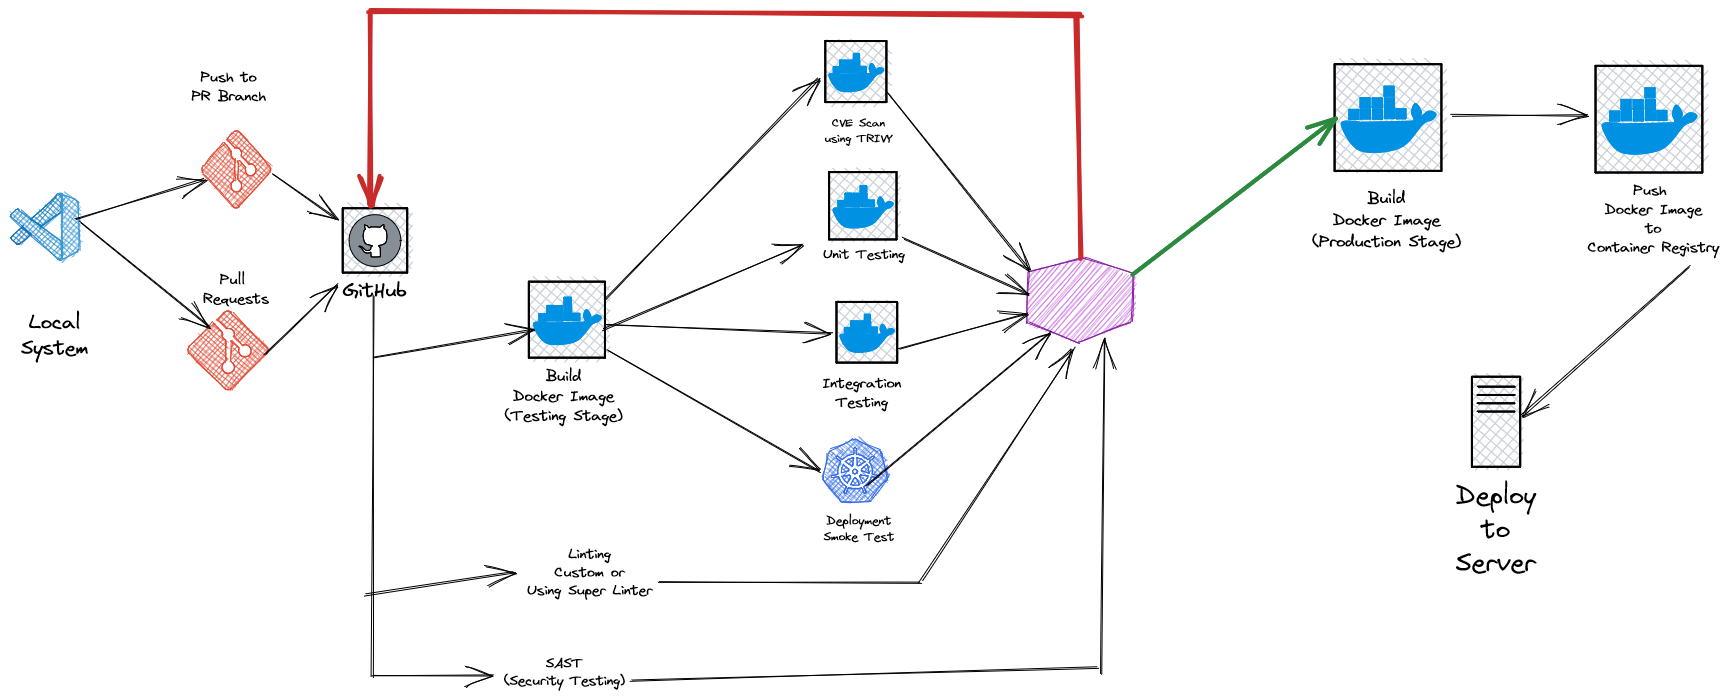
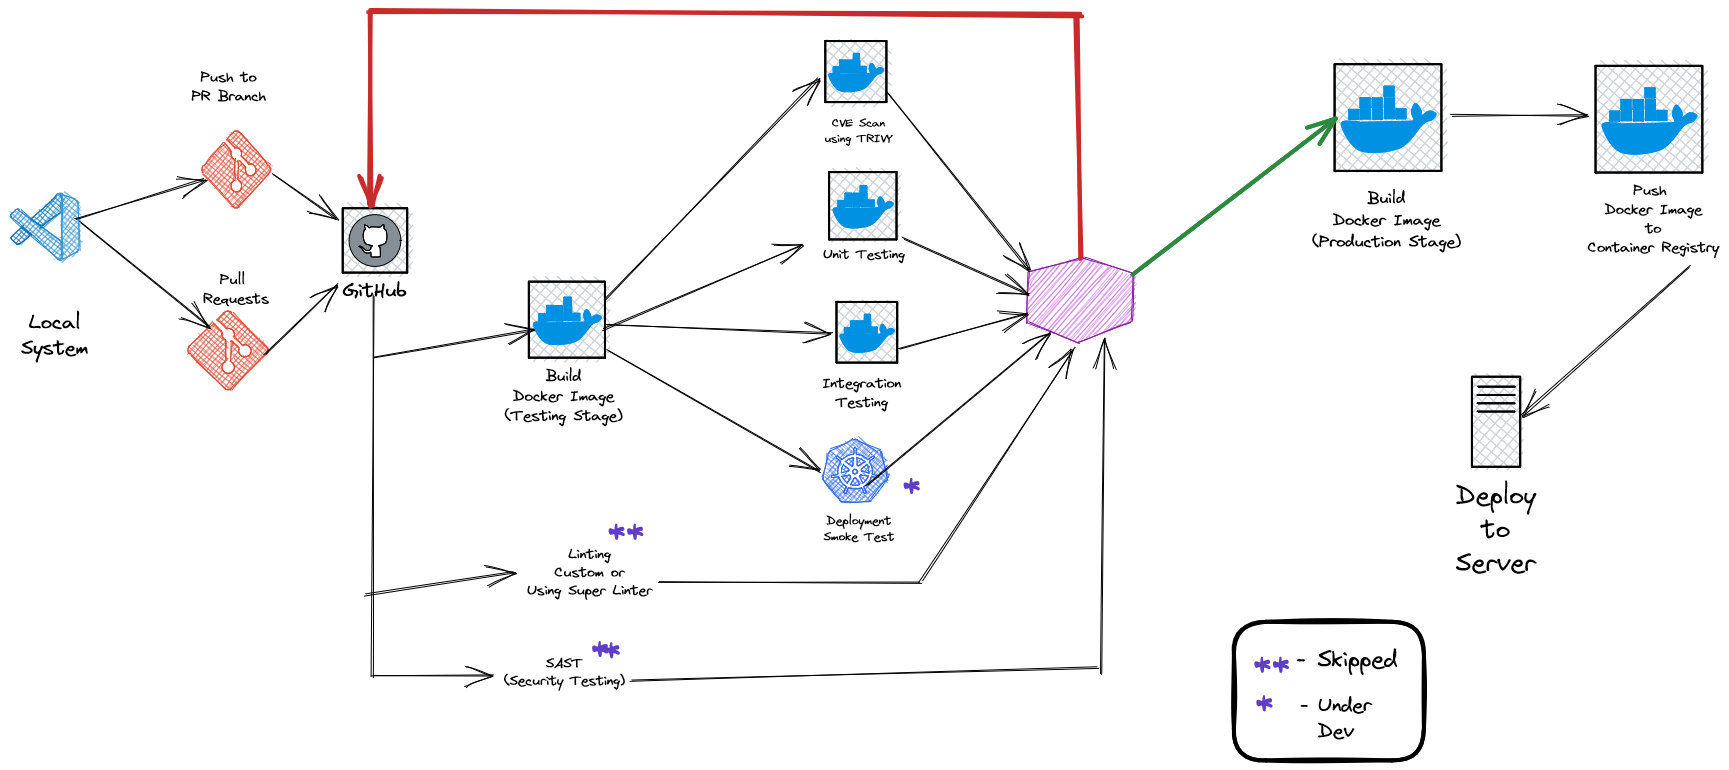
Updated CT/CD

diff --git a/README.MD b/README.MD
@@ -4,6 +4,29 @@
 
 A minimalistic application to generate transcriptions for audio built using Python
 
+## 👇 Product Snapshots
+
+
+#### Without Docker
+
+**v.0.0.1**
+<p align = "center"><img src = "./assets/demo_snapshot_v1.png" height = 300 width = 450 alt = "AITranscriber Snapshot"></p>
+
+**v.0.0.2** (Transcribing a Youtube Video Explaining Whisper)
+<p align = "center"><img src = "./assets/demo_snapshot_v2_1.png" height = 300 width = 450 alt = "AITranscriber Snapshot v2"></p>
+
+**v.0.0.2** (Transcribing an English Song - Thinkin About It)
+<p align = "center"><img src = "./assets/demo_snapshot_v2_2.png" height = 300 width = 450 alt = "AITranscriber Snapshot v2"></p>
+
+**v.0.0.3** (Transcribing a [clip](https://www.youtube.com/watch?v=A1UjHboEypk) from [Lex Fridman's podcast](https://lexfridman.com/podcast/))
+
+<p align = "center"><img src = "./assets/demo_snapshot_v3.png" height = 300 width = 450 alt = "AITranscriber Snapshot v3"></p>
+
+**v.0.0.4** (Transcribing another [clip](https://www.youtube.com/watch?v=zxqjlWNVGNM) from [Lex Fridman's podcast](https://lexfridman.com/podcast/))
+
+<p align = "center"><img src = "./assets/demo_snapshot_v4.png" height = 300 width = 450 alt = "AITranscriber Snapshot v4"></p>
+
+
 ## 📝 Basic Application WorkFlow 
 
 ```mermaid
@@ -75,27 +98,11 @@ flowchart LR
     end
 ```
 
-## 👇 Product Snapshots
+## 🥊CI/CD
 
+(**Preferred Pipeline Using GitHub Actions for Docker Image**)
 
-#### Without Docker
-
-**v.0.0.1**
-<p align = "center"><img src = "./assets/demo_snapshot_v1.png" height = 300 width = 450 alt = "AITranscriber Snapshot"></p>
-
-**v.0.0.2** (Transcribing a Youtube Video Explaining Whisper)
-<p align = "center"><img src = "./assets/demo_snapshot_v2_1.png" height = 300 width = 450 alt = "AITranscriber Snapshot v2"></p>
-
-**v.0.0.2** (Transcribing an English Song - Thinkin About It)
-<p align = "center"><img src = "./assets/demo_snapshot_v2_2.png" height = 300 width = 450 alt = "AITranscriber Snapshot v2"></p>
-
-**v.0.0.3** (Transcribing a [clip](https://www.youtube.com/watch?v=A1UjHboEypk) from [Lex Fridman's podcast](https://lexfridman.com/podcast/))
-
-<p align = "center"><img src = "./assets/demo_snapshot_v3.png" height = 300 width = 450 alt = "AITranscriber Snapshot v3"></p>
-
-**v.0.0.4** (Transcribing another [clip](https://www.youtube.com/watch?v=zxqjlWNVGNM) from [Lex Fridman's podcast](https://lexfridman.com/podcast/))
-
-<p align = "center"><img src = "./assets/demo_snapshot_v4.png" height = 300 width = 450 alt = "AITranscriber Snapshot v4"></p>
+<p align = "center"><img src = "./assets/Docker_CICD.png" height = 300 width = 450 alt = "Docker CI/CD"></p>
 
 
 ## ⚒ Set-Up Instructions
@@ -202,132 +209,9 @@ flowchart LR
     > - If you used a different host port in the above command then navigate to that one, ``http://localhost:<host_port>``
     > - To stop the container, in the terminal check the containter name: ``docker ps --all``
     > - Now use container name with the command:  ``docker stop <container_name>``
-/
-## 🏗 Future Work 
-
-- [x] Download and use audio from Youtube Video
-- [x] Download and use online audio file
-- [x] Use Session States and Caching for Better UX
-- [x] Display the language detected propely (without using the shortcode)
-- [x] Generate Dedicated SRT,VTT files for transcripts (in addition to txt)
-- [x] Update Model options to honour the name of prominent Indian Scientists
-- [x] Option to limit/increase input model file size
-- [x] Functionality to check the validity URL provided for Youtube Video
-- [x] Add Custom Favicon File
-- [x] Add Scrollable Text Area for Generated Transcripts
-- [x] Containerize the Application with Docker and troubleshoot locally
-- [ ] Resolve bug: Youtube video with multiple audios should download default audio. 
-    - Example: This [clip](https://www.youtube.com/watch?v=93L6gDVRrUY) from Huberman Lab is in English yet the script fetches the spanish audio codec from Youtube  
-
-- [ ] Test Application by spinning up it's Container on Google Cloud Run
-    - [ ] Push to a particular Docker Image Registry
-    - [ ] Set TTL
-    - [ ] Play around with system resources
-    - [ ] Test with custom domain
-- [ ] Add Google Cloud's CI/CD to repo on push/pull requests
-    - [ ] Use cloudbuild.yaml file
-    - [ ] Update build time to 2 hours
-- [ ] Optimize Docker Image Size
-- [ ] Better CI/CD
-- [ ] Kubernetes Upgrade
-- [ ] Better GitHub Actions
-
-**More Features**:
-
-- [ ] Burn transcripts to user-uploaded video
-        ```python
-        import os
-        output_video = "final.mp4"
-
-        os.system(f"ffmpeg -i {input_video} -vf subtitles={subtitle} {output_video}")
-        ```
-- [ ] Summarize subtitles
-- [ ] Sentiment analysis on video summary
-- [ ] Batch transcript generation + summary + sentiment analysis
-- [ ] Dashboard for video review(s)
 
 
-**Speaker Diarization: Only if Community requires**
-
-- [ ] Incorporate Speaker Diarization for Podcast/Vlog/Conversational Clips
-- [ ] Test it with burning transcripts to user uploaded video
-- [ ] Test it with transcript summarization
-
-**More Aligned Subtitles: Only if Community requires**
-
-- [ ] Word Level Timestamps for transcripts + Generate ASS Transcript File
-- [ ] Test it with burning transcripts to user uploaded video
-- [ ] Test it with previous speaker diarization
-- [ ] Test it with transcript summarization
-
-
-- [ ] Improve UI Natively in Streamlit
-
-**API Development: Only if Community requires**
-
-- [ ] Build API for model inference in FastAPI to handle requests asynchronously (on a different branch perhaps)
-- [ ] Containerize the API with Docker
-- [ ] Troubleshoot Docker Container for API
-- [ ] Host the API on Google/AWS/Linode/Heroku
-- [ ] Perform basic CI/CD for API 
-- [ ] Rehost Streamlit Application on a different service (Reduce it to client side for most operations)
-- [ ] Play around with pyScript
-
-**Front End Development: Only if Community requires**
-
-- [ ] Build Basic React Front end
-- [ ] Connect React Front End to FastAPI
-- [ ] Add Loader Animation
-- [ ] Add Animations for model inference times
-- [ ] Handling Errors in Front End/API
-- [ ] Upload File Component
-- [ ] Download Button(s)
-- [ ] Feedback Form
-- [ ] Contact Page
-- [ ] About Page
-- [ ] Home Page
-- [ ] Stripe Integration
-- [ ] Improve Navbar UI
-- [ ] 404 Page
-- [ ] Footer UI
-- [ ] Scrollbar UI
-- [ ] SEO
-
-
-## ✏ Note 
-
-<p align = "center"><img src = "./assets/notes.gif" height = 300 alt = "Note Icon"></p>
-
-- To view the generated transcript file(s) in VS Code IDE install [Subtitles Editor](https://marketplace.visualstudio.com/items?itemName=pepri.subtitles-editor) extension
-- To extensively edit/manipulate the generated transcript file(s) use the open source tool [Subtitle Edit](https://www.nikse.dk/subtitleedit) 
-- For Streamlit Sharing, mentioning versions of the modules in requirements throws error at times
-- Large Modelv2 outperforms all other versions of Whisper in terms of performance especially in Multi-lingual Transcription. However, it takes a 10 times more V-RAM than the base model and has longer inference time
-- To quickly record audio from system microphone use [this](https://github.com/smaranjitghose/miscellaneous/blob/master/handypython/data/audio/audio_recording.py) Python Script:
-    - Pre-requisities:
-
-        ```
-        pip install pyaudio wave
-        ```
-- Whisper is unable to read audio file from disk if ``python-ffmpeg`` or ``ffmpeg`` python pacakges are installed. It only works when ``ffmpeg-python`` python package is installed and not the former too
-
-    ```
-    # Remove all ffmpeg related python packages
-    pip uninstall python-ffmpeg ffmpeg ffmpeg-python
-    # Install the appropriate pacakge for ffmpeg
-    pip install ffmpeg-python
-
-    ```
-- [Pixabay](https://pixabay.com/) has a great collection of copyright free, no royalty songs that one can use for testing the application
-- Poor Performance for Kanada or Telegu songs (often language recognition itself fails) for base model. Example: Kantara movie's [Varaha Roopam](https://www.youtube.com/watch?v=gH_RYRwVrVM) Song
-
-<p align = "center"><img src = "./assets/demo_snapshot_v2_3.png" height = 300 width = 450 alt = "AITranscriber Snapshot v2"></p>
-
-## Ideal CI/CD Pipeline for Docker
-
-<p align = "center"><img src = "./assets/Docker_CICD.png" height = 300 width = 450 alt = "Docker CI/CD"></p>
-
-
-## 🥊Deployment Options 
+## 🌏Deployment Options 
 
 <p align = "center"><img src = "./assets/hosting.gif" height = 300 alt = "Hosting Icon"></p>
 
@@ -407,6 +291,134 @@ flowchart LR
 
 - NGINX + Cloudfare/ngrok
 
+## 🏗 Future Work 
+
+- [x] Download and use audio from Youtube Video
+- [x] Download and use online audio file
+- [x] Use Session States and Caching for Better UX
+- [x] Display the language detected propely (without using the shortcode)
+- [x] Generate Dedicated SRT,VTT files for transcripts (in addition to txt)
+- [x] Update Model options to honour the name of prominent Indian Scientists
+- [x] Option to limit/increase input model file size
+- [x] Functionality to check the validity URL provided for Youtube Video
+- [x] Add Custom Favicon File
+- [x] Add Scrollable Text Area for Generated Transcripts
+- [x] Containerize the Application with Docker
+- [x] Troubleshoot Docker Container locally
+- [x] Create Basic Workflow on GitHub Actions for Docker Image Build
+- [x] Create Comprehensive Workflow on GitHub Actions for Docker Image Build
+- [ ] Resolve bug: Youtube video with multiple audios should download default audio. 
+    - Example: This [clip](https://www.youtube.com/watch?v=93L6gDVRrUY) from Huberman Lab is in English yet the script fetches the spanish audio codec from Youtube  
+
+- [ ] Test Application by spinning up it's Container on Google Cloud Run
+    - [ ] Push to a particular Docker Image Registry
+    - [ ] Set TTL
+    - [ ] Play around with system resources
+    - [ ] Test with custom domain
+- [ ] Add Google Cloud's CI/CD to repo on push/pull requests
+    - [ ] Use cloudbuild.yaml file
+    - [ ] Update build time to 2 hours
+- [ ] Optimize Docker Image Size
+- [ ] Better CI/CD
+- [ ] Kubernetes Upgrade
+- [ ] Better GitHub Actions
+
+**More Features**:
+
+- [ ] Burn transcripts to user-uploaded video
+        ```python
+        import os
+        output_video = "final.mp4"
+
+        os.system(f"ffmpeg -i {input_video} -vf subtitles={subtitle} {output_video}")
+        ```
+- [ ] Summarize subtitles
+- [ ] Sentiment analysis on video summary
+- [ ] Batch transcript generation + summary + sentiment analysis
+- [ ] Dashboard for video review(s)
+
+
+**Speaker Diarization: Only if Community requires**
+
+- [ ] Incorporate Speaker Diarization for Podcast/Vlog/Conversational Clips
+- [ ] Test it with burning transcripts to user uploaded video
+- [ ] Test it with transcript summarization
+
+**More Aligned Subtitles: Only if Community requires**
+
+- [ ] Word Level Timestamps for transcripts + Generate ASS Transcript File
+- [ ] Test it with burning transcripts to user uploaded video
+- [ ] Test it with previous speaker diarization
+- [ ] Test it with transcript summarization
+
+
+- [ ] Improve UI Natively in Streamlit
+
+**API Development: Only if Community requires**
+
+- [ ] Build API for model inference in FastAPI to handle requests asynchronously (on a different branch perhaps)
+- [ ] Containerize the API with Docker
+- [ ] Troubleshoot Docker Container for API
+- [ ] Host the API on Google/AWS/Linode/Heroku
+- [ ] Perform basic CI/CD for API 
+- [ ] Rehost Streamlit Application on a different service (Reduce it to client side for most operations)
+- [ ] Play around with pyScript
+
+**Front End Development: Only if Community requires**
+
+- [ ] Build Basic React Front end
+- [ ] Connect React Front End to FastAPI
+- [ ] Add Loader Animation
+- [ ] Add Animations for model inference times
+- [ ] Handling Errors in Front End/API
+- [ ] Upload File Component
+- [ ] Download Button(s)
+- [ ] Feedback Form
+- [ ] Contact Page
+- [ ] About Page
+- [ ] Home Page
+- [ ] Stripe Integration
+- [ ] Improve Navbar UI
+- [ ] 404 Page
+- [ ] Footer UI
+- [ ] Scrollbar UI
+- [ ] SEO
+
+**CI/CD Pipeline (GitHub Actions)**
+- [ ] SAST (Optional)
+- [ ] Kubernetes Smoke Test (Optional)
+- [ ] Using Super Linter for Linting (Optional)
+- [ ] Unit Tests (Optional)
+- [ ] Integration Test (Optional)
+
+
+## ✏ Note 
+
+<p align = "center"><img src = "./assets/notes.gif" height = 300 alt = "Note Icon"></p>
+
+- To view the generated transcript file(s) in VS Code IDE install [Subtitles Editor](https://marketplace.visualstudio.com/items?itemName=pepri.subtitles-editor) extension
+- To extensively edit/manipulate the generated transcript file(s) use the open source tool [Subtitle Edit](https://www.nikse.dk/subtitleedit) 
+- For Streamlit Sharing, mentioning versions of the modules in requirements throws error at times
+- Large Modelv2 outperforms all other versions of Whisper in terms of performance especially in Multi-lingual Transcription. However, it takes a 10 times more V-RAM than the base model and has longer inference time
+- To quickly record audio from system microphone use [this](https://github.com/smaranjitghose/miscellaneous/blob/master/handypython/data/audio/audio_recording.py) Python Script:
+    - Pre-requisities:
+
+        ```
+        pip install pyaudio wave
+        ```
+- Whisper is unable to read audio file from disk if ``python-ffmpeg`` or ``ffmpeg`` python pacakges are installed. It only works when ``ffmpeg-python`` python package is installed and not the former too
+
+    ```
+    # Remove all ffmpeg related python packages
+    pip uninstall python-ffmpeg ffmpeg ffmpeg-python
+    # Install the appropriate pacakge for ffmpeg
+    pip install ffmpeg-python
+
+    ```
+- [Pixabay](https://pixabay.com/) has a great collection of copyright free, no royalty songs that one can use for testing the application
+- Poor Performance for Kanada or Telegu songs (often language recognition itself fails) for base model. Example: Kantara movie's [Varaha Roopam](https://www.youtube.com/watch?v=gH_RYRwVrVM) Song
+
+<p align = "center"><img src = "./assets/demo_snapshot_v2_3.png" height = 300 width = 450 alt = "AITranscriber Snapshot v2"></p>
 
 ## 🙏 Acknowledgements 
 
